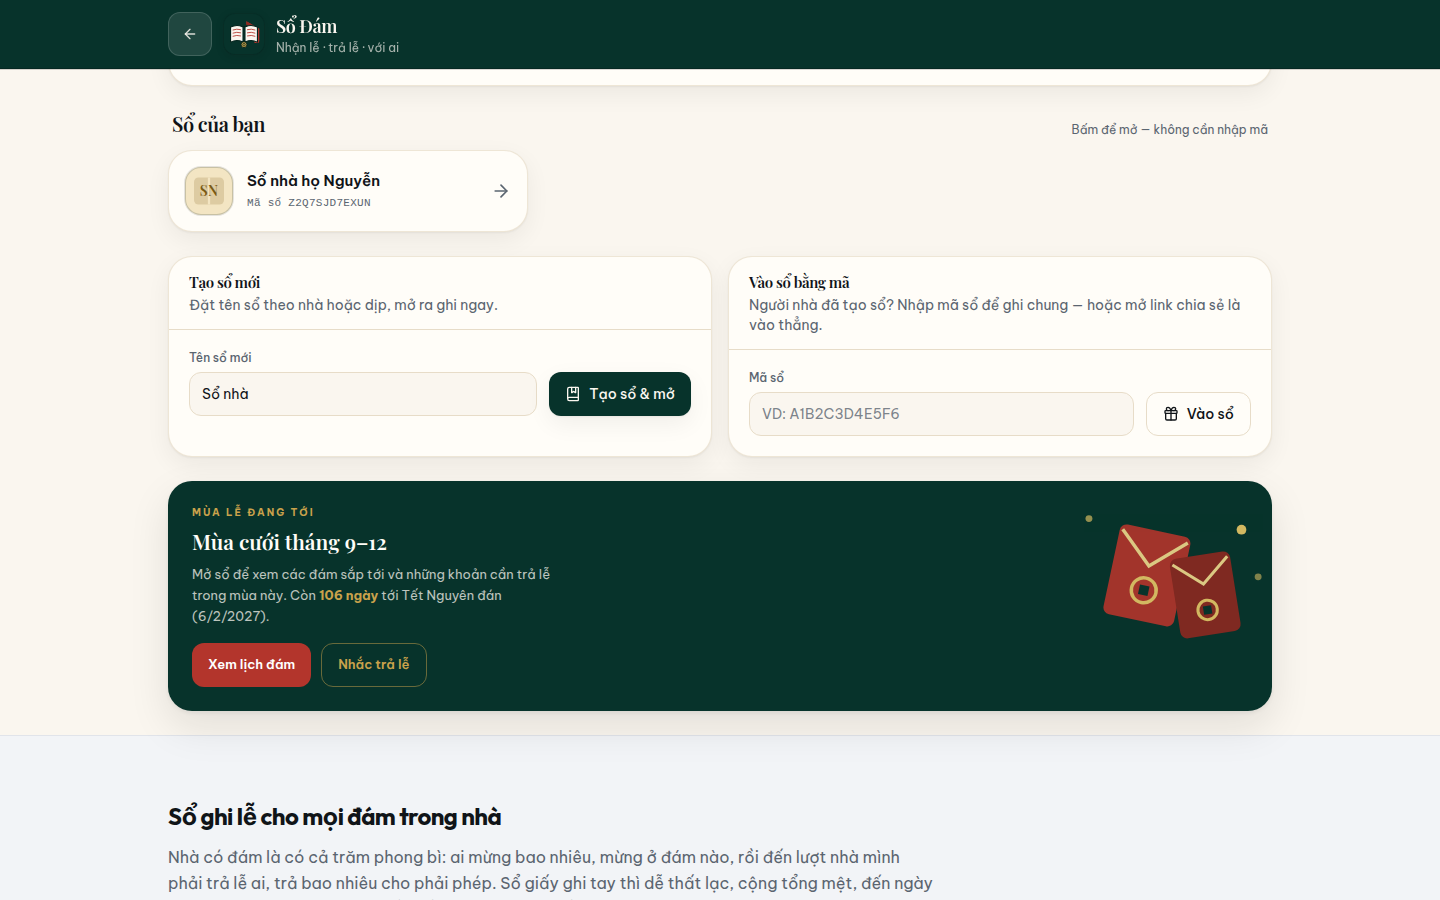
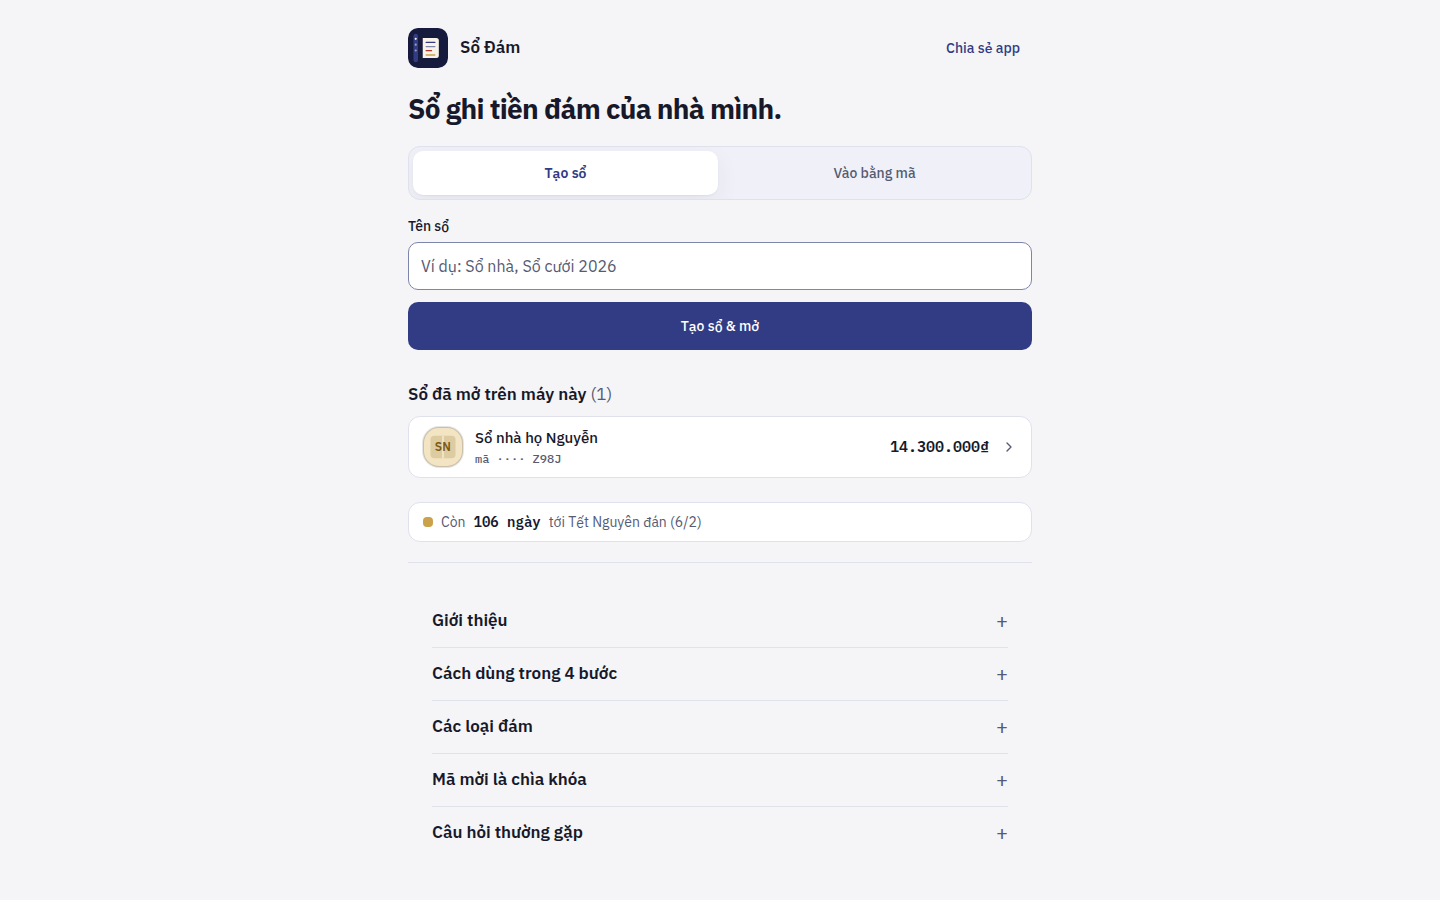
docs: screenshot pack recaptured on redesign-v2 + README truth pass (re-grade r2 P0-3)
- 8 shots from live v2 via real UI flows: wedding workspace + totals strip + formula line, returns face, people face (new gallery-05), and the funeral workspace in its solemn voice (Tổng phúng viếng / Người viếng, no gift icon, no mừng wording, no lacquer red)
- Pack shot on a fresh book; no invite code in any frame or text (only the UI-masked last-4 chip on the home card)
- README: photo/OCR claims removed or marked off-in-public-deployment (no AI key in production), invite code corrected 12 -> 16 chars (~79 bits, hash-stored), all mock/demo wording removed, Screenshots section rewritten to the v2 pack
- GitHub description rewritten without the photo claim; topics 16 -> 10
- R2 studio-catalog/sodam keys overwritten; sha256 verified local == R2 (3/3)

diff --git a/README.md b/README.md
@@ -4,9 +4,9 @@
 
 # Sổ Đám (sodam)
 
-> Receive gifts, return favors, remember who — speak or snap like a village ledger.
+> Receive gifts, return favors, remember who — speak it like a village ledger.
 >
-> Nhận lễ, trả lễ, với ai — nói hoặc chụp ảnh như sổ dưới quê.
+> Nhận lễ, trả lễ, với ai — nói như sổ dưới quê.
 
 [![Live app](https://img.shields.io/badge/live-app-brightgreen)](https://sodam-tawny.vercel.app)
 [![License: MIT](https://img.shields.io/badge/license-MIT-blue)](LICENSE)
@@ -17,13 +17,13 @@ code (or the share link) with family so everyone writes in the same book.
 Repository: https://github.com/changvn2002/sodam
 
 <p align="center">
-  <img src="docs/screenshots/sodam-desktop.png" alt="Sổ Đám — dashboard of a real family book: 12.000.000 ₫ received, 10.000.000 ₫ still held, 10.000.000 ₫ waiting to be returned" width="900">
+  <img src="docs/screenshots/sodam-desktop.png" alt="Sổ Đám — the wedding workspace of a real family book: 14.300.000 ₫ received across four events, 12.300.000 ₫ still held, 12.300.000 ₫ of returns still open" width="900">
 </p>
-<p align="center"><em>The live dashboard of a real family book — guests gave 12.000.000 ₫, returns are tracked per guest, and there is no sign-in anywhere.</em></p>
+<p align="center"><em>The live wedding workspace of a real family book — every guest row carries its return state, the totals strip spells out its own formula, and there is no sign-in anywhere.</em></p>
 
 **Tóm tắt (Tiếng Việt):** Sổ Đám là sổ ghi lễ cho các đám của người Việt — cưới, đám hỏi,
-đám tang, giỗ, mừng thọ, tân gia… Ghi ai đã mừng bao nhiêu bằng tay, bằng giọng nói hoặc
-chụp ảnh sổ tay; app tự theo dõi nghĩa vụ trả lễ, cho cả nhà dùng chung một cuốn sổ bằng
+đám tang, giỗ, mừng thọ, tân gia… Ghi ai đã mừng bao nhiêu bằng tay hoặc bằng giọng nói;
+app tự theo dõi nghĩa vụ trả lễ, cho cả nhà dùng chung một cuốn sổ bằng
 mã mời và vẽ cây họ. Dữ liệu nằm trong database PostgreSQL của chính bạn.
 
 **Sổ Đám** is a Vietnamese gift-ledger app for ceremonies — weddings (cưới), engagements
@@ -39,9 +39,9 @@ ran as a client module talking to a NestJS backend.
 
 ## ✨ Features
 
-- **Multiple books (sổ)** with **no account at all**: open the app and start. Each book is protected by a high-entropy invite code (12 characters, generated server-side with `crypto.randomBytes`); share the code or the one-tap share link and family members open the book directly and write together. Books you created or joined are remembered on each device (local storage) — there is no login anywhere.
+- **Multiple books (sổ)** with **no account at all**: open the app and start. Each book is protected by a high-entropy invite code (16 characters, ≈79 bits, generated server-side with rejection sampling over `crypto.randomBytes` and stored only as a hash); share the code or the one-tap share link and family members open the book directly and write together. Books you created or joined are remembered on each device (local storage) — there is no login anywhere.
 - **Events** across 13 Vietnamese ceremony kinds, hosted or attended, with per-event totals, settled amounts and net balances.
-- **Entries (lễ)** recorded manually, in batch, by voice (speech → AI parse of Vietnamese gift lines like *"anh Tuấn 500 nghìn"*), or from a **photo** of a handwritten ledger (vision AI extraction).
+- **Entries (lễ)** recorded manually, in batch, or by voice (speech → AI parse of Vietnamese gift lines like *"anh Tuấn 500 nghìn"*). Photo extraction from a handwritten ledger exists in the codebase but is **off in the public deployment** — it only activates when the server is configured with an AI key, and the entry point is hidden until then.
 - **Return obligations (trả lễ)** generated automatically when guests give at your hosted events; mark them done/skipped and see over-given amounts.
 - **People directory** with gift history search, plus a **family tree** built from relations (spouse / parent / child / sibling / other).
 - **Dashboard totals**: received, settled, pending returns, over-given, given.
@@ -52,58 +52,78 @@ ran as a client module talking to a NestJS backend.
 ## 🖼 Screenshots
 
 Every screenshot below was captured from the live production deployment at
-https://sodam-tawny.vercel.app (the no-login build) with the app in a **real,
-populated state** — never an empty first-run screen. The book on screen is
-**"Sổ nhà họ Nguyễn"**, holding three events: a hosted
-wedding ("Cưới con gái Minh Anh", 18 Oct 2026) with six guests, a hosted death
-anniversary ("Giỗ ông nội"), and a wedding the family attended. Two return gifts have
-already been marked as returned — one of them 200.000 ₫ more than the guest
-originally gave.
+https://sodam-tawny.vercel.app (the redesign-v2 "Command Ledger" build) with the
+app in a **real, populated state** — never an empty first-run screen. The book on
+screen is **"Sổ nhà họ Nguyễn"**, holding four events: a hosted wedding
+("Cưới con gái Minh Anh", 18 Oct 2026) with six guests, a funeral
+("Tang lễ cụ Nguyễn Văn An", 2 Oct 2026) with four mourners, a hosted death
+anniversary ("Giỗ ông nội", 4 Oct 2026), and a wedding the family attended
+(11 Oct 2026). Two return gifts have already been marked as returned — one of
+them 200.000 ₫ more than the guest originally gave. Invite codes are never
+printed in this README; on the home screen the app itself only ever shows a
+masked code.
 
-### Dashboard — the whole book at a glance
+### The wedding workspace — ledger, totals and the formula
 
-![Desktop 1440×900 — dashboard of "Sổ nhà họ Nguyễn": 12.000.000 ₫ received, 10.000.000 ₫ still held after returns, 10.000.000 ₫ of returns still open](docs/screenshots/sodam-desktop.png)
+![Desktop 1440×900 — wedding workspace of "Sổ nhà họ Nguyễn": six guest rows with return states, event summary 10.000.000 ₫ received, and the book totals strip with its formula line](docs/screenshots/sodam-desktop.png)
 
-_After the three events, guests have given 12.000.000 ₫ in total ("Khách đã mừng").
-2.000.000 ₫ of it is already settled by return gifts, so the book still holds
-10.000.000 ₫ ("Còn giữ"); the family has paid out 2.700.000 ₫ in returns and
-attended-event gifts ("Đã trả / đi"), and 10.000.000 ₫ across 7 guests is still
-waiting to be returned ("Cần trả lễ"). The "Công thức sổ" line spells the maths out —
-including the 200.000 ₫ over-given part._
+_The workspace is one continuous screen: the rail on the left (Sổ → Đám → Mặt),
+the quick-entry command bar on top, and the ledger in the middle. The totals
+strip reads the whole book at a glance — 14.300.000 ₫ received ("Tổng đã nhận"),
+2.700.000 ₫ gone out ("Tổng đã đi"), 12.300.000 ₫ still held ("Còn giữ") and
+12.300.000 ₫ of returns still open across 11 obligations ("Cần trả lễ") — and
+the mono formula line underneath spells the maths out, including the
+200.000 ₫ over-given part. The wedding itself took 10.000.000 ₫ from 6 guests;
+2.000.000 ₫ is already settled, and every row carries its own return state:
+"Chờ trả", "Đã trả", or "Quá tay" for the guest who was returned more than
+they gave._
 
 | Mobile (390×844) | Social / link-preview (1280×640) |
 | --- | --- |
-| ![Mobile — the same dashboard stacked for phones, book totals on top](docs/screenshots/sodam-mobile.png) | ![Social — 1280×640 preview frame of the dashboard](docs/screenshots/sodam-social.png) |
-| _On a phone the four totals stack into a 2×2 grid above the formula line, with the bottom tab bar (Tổng quan / Trả lễ / Người / Họ hàng) always in reach._ | _The 1280×640 frame used when the app link is shared: the totals and the return-gift shortcut (7 guests · 10.000.000 ₫) are visible before the app even opens._ |
+| ![Mobile — the same wedding workspace on a phone: event chips, totals and formula on top, guest ledger below, "Còn giữ" and the record button pinned at the bottom](docs/screenshots/sodam-mobile.png) | ![Social — 1280×640 preview frame of the wedding workspace: totals strip, event summary and the first guest rows](docs/screenshots/sodam-social.png) |
+| _On a phone the rail becomes event chips and the four faces become tabs (Tổng quan / Trả lễ / Người / Cây họ); the bottom bar keeps "Còn giữ 12.300.000 ₫" and the "Ghi khoản" button always in reach._ | _The 1280×640 frame of the same screen: the totals, the wedding summary (10.000.000 ₫ mừng, 2.000.000 ₫ đã trả) and the settled / over-given rows are visible before the app even opens._ |
 
 ### Step by step
 
 **Step 1 — Open the app, create a book.** No account, no sign-in: the home screen
-lists the books kept on this device — each with its invite code — next to the
-create-book and join-by-code panels. Anyone with the code (or the share link) writes
-in the same book. The season card counts 106 days to Tết Nguyên đán (6 Feb 2027).
+carries the create-book / join-by-code tabs and lists the books kept on this
+device — each with its running total and a **masked** invite code (the full code
+is never shown on screen). The season card counts 106 days to Tết Nguyên đán
+(6 Feb 2027).
 
-![Step 1 — home: "Sổ nhà họ Nguyễn" book card, create/join panels and the wedding-season card](docs/screenshots/gallery-01-tao-so.png)
+![Step 1 — home: create/join tabs, the "Sổ nhà họ Nguyễn" book card with its masked invite code and 14.300.000 ₫ total, and the Tết countdown card](docs/screenshots/gallery-01-tao-so.png)
 
-**Step 2 — Record who gave what.** Inside an event, every guest row shows the amount
-they gave plus its own return-gift form. Settled rows are badged "Đã trả lễ":
-Cậu Tư Lê Văn Đức gave 1.000.000 ₫ and was returned 1.200.000 ₫ — the app flags the
-200.000 ₫ over-given part instead of silently absorbing it into the totals.
+**Step 2 — Record who gave what.** The entry sheet opens over the ledger: type a
+name (or dictate it on the "Giọng nói" tab), tap a quick amount chip, and the
+"Sẽ ghi:" line reads the entry back — "Chị Bảy Phạm Thu Hằng — 500.000 ₫ tiền
+mừng" — before "Lưu khoản mừng" saves it. Nothing is written until that read-back
+looks right.
 
-![Step 2 — guest ledger of the wedding: gift amounts, per-guest return forms, settled rows](docs/screenshots/gallery-02-ghi-le.png)
+![Step 2 — the entry sheet mid-action over the wedding ledger: guest name typed, 500.000 ₫ chip chosen, the read-back line confirming the entry before it is saved](docs/screenshots/gallery-02-ghi-le.png)
 
-**Step 3 — Work the return list.** The "Cần trả lễ" screen collects every open
-obligation across all events — here the gifts from the "Giỗ ông nội" anniversary
-(500.000 ₫, 500.000 ₫ and 1.000.000 ₫) — each with the amount to return, quick-pick
-amounts, and mark-done / skip actions.
+**Step 3 — Work the return list.** The "Trả lễ" face collects every obligation
+across all four events under one summary strip — 12.300.000 ₫ still waiting
+("Chờ trả"), 2.200.000 ₫ already returned ("Đã trả"), 200.000 ₫ given over
+("Quá tay") — with a tab per state and the amount owed shown on every row.
 
-![Step 3 — open return obligations with per-guest amounts and mark-done actions](docs/screenshots/gallery-03-tra-le.png)
+![Step 3 — the return list: summary strip (12.300.000 ₫ waiting, 2.200.000 ₫ returned, 200.000 ₫ over-given), state tabs, and open obligations from the anniversary, the funeral and the wedding](docs/screenshots/gallery-03-tra-le.png)
 
-**Step 4 — Every event keeps its own summary.** The wedding received 10.000.000 ₫
-from 6 guests; 2.000.000 ₫ is settled, 200.000 ₫ was over-given, and the solar date
-(18/10/2026) is shown together with its Vietnamese lunar date (9/9 âm lịch).
+**Step 4 — A funeral speaks a different language.** The same workspace, a
+completely different voice: the funeral of cụ Nguyễn Văn An totals
+"Tổng phúng viếng" — 2.300.000 ₫ from 4 "người viếng" (mourners) — the return
+column reads "Đã đi lại", and no wedding vocabulary appears anywhere on the
+screen. The solar date (2/10/2026) is shown together with its Vietnamese lunar
+date (22/8 âm lịch).
 
-![Step 4 — per-event summary for "Cưới con gái Minh Anh": received / kept / settled / over-given](docs/screenshots/gallery-04-tong-ket-su-kien.png)
+![Step 4 — the funeral workspace in its solemn voice: "Tổng phúng viếng" 2.300.000 ₫, four mourners listed as "Người viếng", lunar date 22/8 âm lịch](docs/screenshots/gallery-04-tong-ket-su-kien.png)
+
+**Step 5 — Every person, both directions.** The "Người" face totals each
+relationship across all events: Bác Hai Nguyễn Văn Thành has given
++4.000.000 ₫ over three events, while Nhà bác Bảy stands at −500.000 ₫ — the
+wedding the family attended. What the book owes and what it is owed is visible
+per person, not just per event.
+
+![Step 5 — the People face: eight people with two-way totals and their most recent event, from +5.000.000 ₫ (Ông bà ngoại) to −500.000 ₫ (Nhà bác Bảy)](docs/screenshots/gallery-05-nguoi.png)
 
 ## 🛠 Tech stack
 
@@ -139,7 +159,7 @@ pnpm dev                    # http://localhost:3100
 
 Open the app and create your first book right away — there is no sign-in. No seed data is required.
 
-To try the UI without a database, set `NEXT_PUBLIC_SODAM_API_MODE=mock` in `.env` and run `pnpm dev` — the app uses an in-memory demo store instead of the API.
+To run the UI without a database, set `NEXT_PUBLIC_SODAM_API_MODE` to the in-memory mode (value documented in `.env.example`) and run `pnpm dev` — the app then uses an in-memory store instead of the API.
 
 ### Scripts
 
@@ -150,7 +170,7 @@ To try the UI without a database, set `NEXT_PUBLIC_SODAM_API_MODE=mock` in `.env
 | `pnpm start`                   | Run the production build                        |
 | `pnpm typecheck`               | Type-check (`tsc --noEmit`)                     |
 | `pnpm lint`                    | ESLint over the whole repo                      |
-| `pnpm test`                    | Vitest specs (mock API, API-route no-login flow, invite codes, lunar, money parser) |
+| `pnpm test`                    | Vitest specs (in-memory API, API-route no-login flow, invite codes, lunar, money parser) |
 | `pnpm format` / `format:check` | Prettier write / check                          |
 | `pnpm db:push`                 | Apply the Prisma schema to your database        |
 | `pnpm db:studio`               | Browse the database with Prisma Studio          |
@@ -164,7 +184,7 @@ To try the UI without a database, set `NEXT_PUBLIC_SODAM_API_MODE=mock` in `.env
 | `AI_TRANSLATE_BASE_URL` | No | Base URL of the OpenAI-compatible endpoint (default `https://api.openai.com/v1`). |
 | `AI_TRANSLATE_MODEL`  | No | Default model for chat + vision (default `gpt-4o-mini`).                    |
 | `OPENAI_BASE_URL`, `OPENAI_CHAT_MODEL`, `OPENAI_VISION_MODEL` | No | Optional overrides per capability. |
-| `NEXT_PUBLIC_SODAM_API_MODE` | No | `http` (default, real API) or `mock` (in-memory demo, no server data). |
+| `NEXT_PUBLIC_SODAM_API_MODE` | No | `http` (default, real API) or the in-memory mode (no server data; value in `.env.example`). |
 | `NEXT_PUBLIC_SITE_URL` | No (set in production) | Public base URL used for canonical/OG metadata, `sitemap.xml`, `robots.txt` and JSON-LD. The code default is this repo's production domain (`https://sodam-tawny.vercel.app`) — set it to your own URL when you deploy elsewhere. |
 
 See `.env.example` for the documented template.
@@ -180,7 +200,7 @@ app/
                                   #   relations, returns, CSV, AI, sync)
 components/sodam/                  # the product client (from the original codebase)
   app.tsx  shell.tsx               # screens + app shell
-  api/                             # typed API contract: http client + mock client
+  api/                             # typed API contract: http client + in-memory client
   lib/                             # event kinds, lunar calendar, money parser,
                                   #   offline outbox, local book registry (book-store)
   ui/                              # avatar, ledger row, lottie
@@ -202,7 +222,7 @@ docs/screenshots/                  # production screenshots used in this README
 ## 🧑💻 Development
 
 - Money parsing lives in `components/sodam/lib/parse-money.ts` (client) and `lib/server/parse-gift.ts` (server), lunar conversion in `components/sodam/lib/lunar.ts`, and the event-kind list in `lib/server/sodam-event-kinds.ts` — each ships with specs; run `pnpm test` before opening a PR.
-- The UI only talks to the product API through `components/sodam/api` (http / mock clients) — switch modes with `NEXT_PUBLIC_SODAM_API_MODE`, never by importing a client directly into components.
+- The UI only talks to the product API through `components/sodam/api` (http / in-memory clients) — switch modes with `NEXT_PUBLIC_SODAM_API_MODE`, never by importing a client directly into components.
 - Code style: TypeScript `strict`, ESLint via `eslint-config-next`, Prettier (single quotes, semicolons, print width 100). Run `pnpm lint && pnpm typecheck` before committing.
 - PRs welcome: fork → branch → PR against `main`. Describe the user-visible change and add screenshots for UI changes.
 
